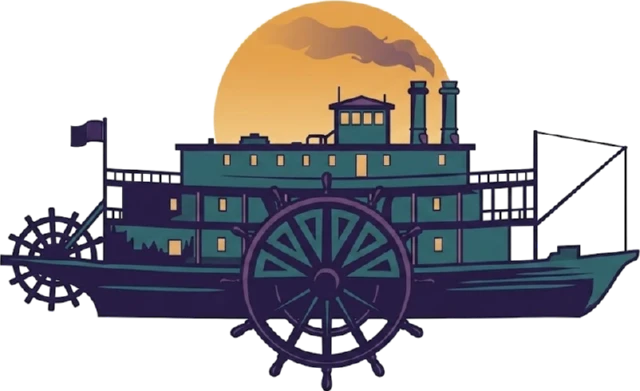
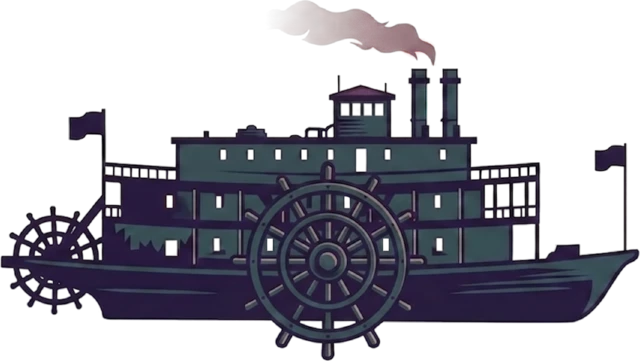
The sun sets behind the boat
Named behaviour change: the sun is its own drawing on the menu, setting into the
water, with the boat riding in front of it.

Where it goes is not a number anybody chose. The boat and the sun came as two
files on one canvas, so the artist's own composition is still in them: the sun
is .700 of the boat's width, clears the funnels by .051 of it, and sits .012
right of the middle. Those three go in the stylesheet in boat widths, so the
picture is the one that was drawn at any size of screen, and the cut at the
waterline is worked out from the dip rather than guessed at.

The boat is a new drawing -- darker, two flags, no sun -- and it is taller in
proportion, so the aspect it is given changed with it.

The corner mark and the launcher icon are NOT recut. They still come from the
boat as it was drawn with its sun, and changing what the icon looks like is not
what was asked for. The README says so rather than going quietly stale.

Also fixed, and this is the second time: a picture drew at the size it was saved
at because the rule naming it and the rule sizing it were two rules, and a
rename took one of them out of reach. Both are one rule per picture now, and the
suite fails on a rule that names a picture without saying how big it is. The
last check I added for this caught the class going missing but not the property,
which is why it happened twice.

diff --git a/public/styles.css b/public/styles.css
@@ -1844,8 +1844,15 @@ body.host .scorecard-panel .table-wrap{
   /* The boat's own size, said once: the horizon is put where its hull is, and
      the hull is a fraction of a height that follows from the width. */
   --boat-w:min(64vw,300px);
-  --boat-h:calc(var(--boat-w) * 391 / 640);
+  --boat-h:calc(var(--boat-w) * 964 / 1707);
   --dip:calc(var(--boat-h) * .13);          /* how much of it is under water */
+  /* Where the sun goes, taken off the drawing the two were cut from: they were
+     one picture on one canvas, so the size and the offsets below are the
+     artist's own, in boat widths. Keeping them means the sun sits behind the
+     boat exactly where it was drawn, at any size of screen. */
+  --sun-w:calc(var(--boat-w) * .700);
+  --sun-up:calc(var(--boat-w) * .051);      /* how far it clears the funnels */
+  --sun-over:calc(var(--boat-w) * .012);    /* and how far right of the middle */
   min-height:100dvh;display:flex;flex-direction:column;
   /* The lamp behind the boat is deliberately wider than the screen, and an
      overhang nobody clips makes the whole page wider than the screen. That is
@@ -1930,23 +1937,40 @@ body:not(.motion-off) .home-ripple{animation:sp-drift 9s linear infinite}
   background:var(--gold);border-color:var(--gold);color:var(--on-gold);
 }
 .home-menu .btn.ghost{background:transparent;border-color:rgba(255,255,255,.28)}
-.home-sky .sp-title,.home-sky .sp-boat{
-  position:relative;flex:none;
-  /* `contain`, or a picture wider than its box is drawn at its own size and
-     what you get is the top left corner of it. */
-  background-position:center;background-size:contain;background-repeat:no-repeat;
-}
+/* Every picture on this screen says how big to be in the same rule that says
+   what it is. Split across two, the sizing gets lost the next time one of them
+   is renamed or moved -- which has happened twice, and both times the picture
+   drew at the size it was saved at and you saw the corner of it. */
 .home-sky .sp-title{
+  position:relative;flex:none;
   background-image:url(art/title.webp);
+  background-position:center;background-size:contain;background-repeat:no-repeat;
   width:100%;max-width:min(84vw,460px);aspect-ratio:900 / 324;
   filter:drop-shadow(0 6px 18px rgba(var(--table-edge-rgb),.28));
 }
-/* Hung over the edge of the sky by the depth of its own hull, and drawn over
-   the water rather than under it. */
-.home-sky .sp-boat{
-  background-image:url(art/boat.webp);
+/* The sun and the boat are one scene, hung over the edge of the sky by the
+   depth of the hull so the waterline runs through both of them. */
+.home-sky .sp-scene{
+  position:relative;flex:none;
   width:var(--boat-w);height:var(--boat-h);
-  margin-bottom:calc(var(--dip) * -1);z-index:2;
+  margin-bottom:calc(var(--dip) * -1);
+}
+/* Setting: it is cut off at the water, and the cut is worked out rather than
+   guessed -- the waterline is a dip above the scene's foot, and the sun starts
+   --sun-up above the scene's head. */
+.home-sky .sp-sun{
+  position:absolute;z-index:1;
+  width:var(--sun-w);height:var(--sun-w);
+  top:calc(var(--sun-up) * -1);
+  left:calc(50% + var(--sun-over));transform:translateX(-50%);
+  background:url(art/sun.webp) center/contain no-repeat;   /* size in the shorthand */
+  clip-path:inset(0 0 calc(var(--sun-w) - var(--boat-h) + var(--dip) - var(--sun-up)) 0);
+}
+/* In front of it, and drawn over the water rather than under it. */
+.home-sky .sp-boat{
+  position:absolute;inset:0;z-index:2;
+  background-image:url(art/boat.webp);
+  background-position:center;background-size:contain;background-repeat:no-repeat;
   filter:drop-shadow(0 10px 22px rgba(0,0,0,.3));
   /* The last of the hull goes soft, so it ends in the water rather than
      stopping in it. The ripples over it do the rest. */

diff --git a/test-pages.js b/test-pages.js
@@ -2116,8 +2116,15 @@ part("the app's menu screen");
      between them by the depth of its own hull. */
   ok(/\.home-river\{[^}]*radial-gradient/.test(css), 'the water is under the boat');
   ok(/--dip:calc\(var\(--boat-h\)/.test(css)
-     && /\.sp-boat\{[^}]*margin-bottom:calc\(var\(--dip\) \* -1\)/.test(css),
+     && /\.sp-scene\{[^}]*margin-bottom:calc\(var\(--dip\) \* -1\)/.test(css),
      'and the boat sits in it rather than on top of it');
+  /* The sun is set behind the boat by the numbers off the drawing the two were
+     cut from, so the composition is the artist's at any size. Read them here so
+     a hand-tuned number cannot creep back in. */
+  ok(/--sun-w:calc\(var\(--boat-w\)/.test(css) && /--sun-up:calc\(var\(--boat-w\)/.test(css),
+     'the sun is sized and placed off the boat, not off the screen');
+  ok(/\.sp-sun\{[^}]*clip-path:inset\(0 0 calc\(/.test(css),
+     'and the water cuts it, by what is worked out rather than guessed');
   ok(/\.home-sky\{background:#f4f1ea\}/.test(page),
      'the sky is the cream the phone drew behind the page');
 
@@ -2147,6 +2154,16 @@ part("the app's menu screen");
   const orphan = named.filter((c) => !worn.has(c));
   ok(named.length > 4 && !orphan.length,
      'every part the rules name is one the page carries  got ' + orphan.join(' '));
+
+  /* And a picture put on a box has to be told how big to be. A rule that names
+     one and not the other draws it at the size it was saved at and you get the
+     corner of it -- which has happened twice, both times by splitting a rule
+     that carried the sizing for several. */
+  const unsized = (menuCss.match(/[^{}]+\{[^{}]*background-image:url\(art[^{}]*\}/g) || [])
+    .filter((r) => !/background-size|background:[^;]*\//.test(r))
+    .map((r) => r.slice(0, r.indexOf('{')).trim());
+  ok(!unsized.length,
+     'and every picture is told how big to be  got ' + unsized.join(' | '));
 }
 
 part('the swatch');

diff --git a/android/app/src/main/assets/chooser.html b/android/app/src/main/assets/chooser.html
@@ -48,7 +48,11 @@
   <div class="home-sky">
     <span class="sp-glow"></span>
     <span class="sp-title"></span>
-    <span class="sp-boat"></span>
+    <!-- One scene: the sun setting behind the boat, both cut by the waterline. -->
+    <span class="sp-scene">
+      <span class="sp-sun"></span>
+      <span class="sp-boat"></span>
+    </span>
   </div>
   <div class="home-river">
   <!-- Light on the water, over the part of the boat that is under it. -->

diff --git a/README.md b/README.md
@@ -946,7 +946,9 @@ round launcher cuts the rest away. It is as large as it goes with every inked
 pixel still inside that circle, and it is placed by where the ink is rather than
 by the edges of the picture. The corner's tile is a closer cut of the same
 drawing, because a 38px square is squarer than a boat. Both are cut from
-`art/boat.png` at the root of the tree, which is not shipped.
+`art/` at the root of the tree, which is not shipped -- from the boat as it was
+drawn with its sun, before the two were separated for the menu's horizon. The
+marks have not been recut since.
 
 **The app opens on a menu.** The phone draws the boat on cream before a line of
 our code runs -- `res/values-v31/themes.xml`, and `res/drawable/splash_window.xml`
@@ -962,6 +964,13 @@ rising and falling and turning by a third of a degree, for as long as the screen
 is up: a boat on water is never quite still. The sky is the cream the phone drew
 behind the page, whatever the theme is, so the two land on each other; everything
 below the horizon follows the theme.
+
+The sun is its own drawing now, set behind the boat and cut off by the water.
+Where it goes is not a number anybody chose: the boat and the sun were one
+picture on one canvas, so its width, how far it clears the funnels, and how far
+right of the middle it sits are measured off that drawing and written in boat
+widths. The composition is the artist's at any size of screen, and the cut is
+worked out from the waterline rather than guessed.
 
 The name is in the sky. The choices are on the water, and wear the water's
 colours rather than the page's — gold for the thing you came to do, and the
